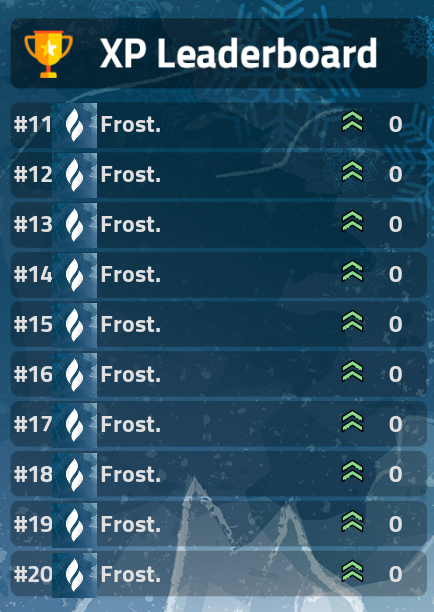
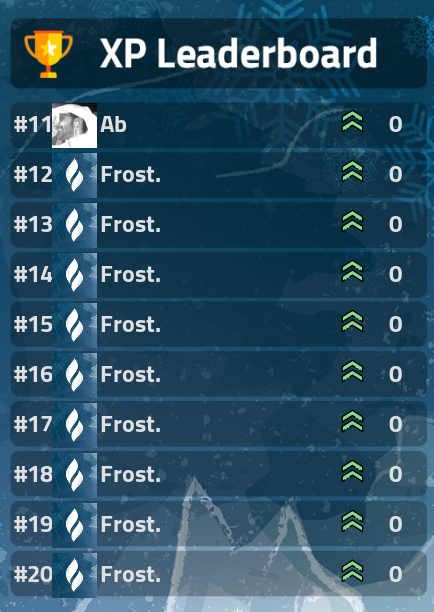
update

Changed region(s): [[0.1198, 0.1552, 0.3594, 0.2484]]

diff --git a/web/index.html b/web/index.html
@@ -15,7 +15,7 @@
 <link rel="stylesheet" href="https://cdnjs.cloudflare.com/ajax/libs/OwlCarousel2/2.3.4/assets/owl.carousel.min.css">
 <link rel="stylesheet" href="https://cdnjs.cloudflare.com/ajax/libs/OwlCarousel2/2.3.4/assets/owl.theme.default.min.css">
 <!-- Style -->
-<link rel="stylesheet" href="assest/css/style.css">
+<link rel="stylesheet" href="css/style.css">
 
 
 <!-- END CSS -->
@@ -94,7 +94,7 @@ color: #000;
 	<header>
 		<div class="top-header">
 			<div class="logo ">
-				<a href="#" class="logo-border"><img src="assest/img/logo.png" /></a>
+				<a href="#" class="logo-border"><img src="img/logo.png" /></a>
 			</div>
 			<div class="partner-btn"><a class="cairo link-icon f-menu" href="#"><span class="link-text">كن شريكاً</span></a></div>
 			<div class="top-menu">
@@ -157,7 +157,7 @@ color: #000;
 				</div>
 				<div class="section-btns">
 				    
-					<a class="b-btn cairo" href="#">إبدأ الآن!</a>
+					<a class="b-btn cairo" id="start">إبدأ الآن!</a>
 					<a class="btn"  href="#section2">معرفة المزيد</a>
 				</div>
 			</div>
@@ -183,7 +183,7 @@ color: #000;
 			</div>
 			<div class="col-lg-5 col-md-5 col-12 col-sm-12 col-xs-12 float-left">
 				<div class="text-box-2 m-l-10 cairo">
-					<img class="dash-img" id="tilt" src="assest/img/dash.png" />
+					<img class="dash-img" id="tilt" src="img/dash.png" />
 				</div>
 			</div>
 		</div>
@@ -205,7 +205,7 @@ color: #000;
     <div class="row owl-carousel">
       <div class="card card-size">
         <div class="card-img-top text-center px-5 mt-3 m-t-10">
-          <img src="assest/img/avatar.png" class="img-fluid img-size">
+          <img src="img/avatar.png" class="img-fluid img-size">
         </div>
         <div class="card-body">
           <h5 class="card-title text-center">مود القباني</h5>
@@ -214,7 +214,7 @@ color: #000;
       
       <div class="card card-size">
         <div class="card-img-top text-center px-5 mt-3 m-t-10">
-         <img src="assest/img/avatar.png" class="img-fluid img-size">
+         <img src="img/avatar.png" class="img-fluid img-size">
         </div>
         <div class="card-body">
           <h5 class="card-title text-center">مود القباني</h5>
@@ -223,7 +223,7 @@ color: #000;
       
       <div class="card card-size">
         <div class="card-img-top text-center px-5 mt-3 m-t-10">
-         <img src="assest/img/avatar.png" class="img-fluid img-size">
+         <img src="img/avatar.png" class="img-fluid img-size">
         </div>
         <div class="card-body">
           <h5 class="card-title text-center">مود القباني</h5>
@@ -232,7 +232,7 @@ color: #000;
       
       <div class="card card-size">
         <div class="card-img-top text-center px-5 mt-3 m-t-10">
-         <img src="assest/img/avatar.png" class="img-fluid img-size">
+         <img src="img/avatar.png" class="img-fluid img-size">
         </div>
         <div class="card-body">
           <h5 class="card-title text-center">مود القباني</h5>
@@ -241,7 +241,7 @@ color: #000;
       
       <div class="card card-size">
         <div class="card-img-top text-center px-5 mt-3 m-t-10">
-          <img src="assest/img/avatar.png" class="img-fluid img-size">
+          <img src="img/avatar.png" class="img-fluid img-size">
         </div>
         <div class="card-body">
           <h5 class="card-title text-center">مود القباني</h5>
@@ -250,7 +250,7 @@ color: #000;
       
       <div class="card card-size">
         <div class="card-img-top text-center px-5 mt-3 m-t-10">
-          <img src="assest/img/avatar.png" class="img-fluid img-size">
+          <img src="img/avatar.png" class="img-fluid img-size">
         </div>
         <div class="card-body">
           <h5 class="card-title text-center">مود القباني</h5>
@@ -259,7 +259,7 @@ color: #000;
       
       <div class="card card-size">
         <div class="card-img-top text-center px-5 mt-3 m-t-10">
-          <img src="assest/img/avatar.png" class="img-fluid img-size">
+          <img src="img/avatar.png" class="img-fluid img-size">
         </div>
         <div class="card-body">
           <h5 class="card-title text-center">مود القباني</h5>
@@ -330,9 +330,9 @@ color: #000;
 				<div class="row copyright copyright2 copyright-index text-center"> 2020 جميع الحقوق محفوظة لـفروست ©</div>
 			</div>
 			<div class="col-lg-6 col-md-6 col-sm-12 col-xs-12 col-12 float-left">
-				<img class="footer-img object" src="assest/img/logo-footer.png" />
+				<img class="footer-img object" src="img/logo-footer.png" />
 				<div class="row text-center"><a href="#" class="footer-link">سياسة الاستخدام والخصوصية</a></div>
-				<div class="row text-center"><img class="pay-img" src="assest/img/pay.png" /></div>
+				<div class="row text-center"><img class="pay-img" src="img/pay.png" /></div>
 			</div>
 		</div>
 		<div class="bottom-section-4"></div>
@@ -414,13 +414,12 @@ el.addEventListener('mousedown', function() {
 el.addEventListener('mouseup', function() {
   el.style.transform = 'perspective(500px) scale(1.1) rotateX(0) rotateY(0)'
 })
-
 </script>
 <!-- counter -->
-<script type="text/javascript" src="assest/js/purecounter.js"></script>
+<script type="text/javascript" src="js/purecounter.js"></script>
 
-<script src="assest/js/script.js"></script>
-<script src="assest/js/slider.js"></script>
+<script src="js/script.js"></script>
+<script src="js/slider.js"></script>
 <!-- END JS -->
 </body>
 </html>

diff --git a/web/dashboard.html b/web/dashboard.html
@@ -15,11 +15,12 @@
 <link rel="stylesheet" href="https://cdnjs.cloudflare.com/ajax/libs/OwlCarousel2/2.3.4/assets/owl.carousel.min.css">
 <link rel="stylesheet" href="https://cdnjs.cloudflare.com/ajax/libs/OwlCarousel2/2.3.4/assets/owl.theme.default.min.css">
 <!-- Style -->
-<link rel="stylesheet" href="assest/css/style.css">
-<link rel="stylesheet" href="assest/css/keyframes.css">
-    <link rel="stylesheet" href="assest/css/pageTransitions.css">
+<link rel="stylesheet" href="http://20.55.99.164/css/style.css">
+<link rel="stylesheet" href="http://20.55.99.164/css/keyframes.css">
+    <link rel="stylesheet" href="http://20.55.99.164/css/pageTransitions.css">
 <!-- Tooltip -->
 <link rel="stylesheet" href="https://cdn.jsdelivr.net/gh/zkreations/tooltips@3/tooltips.min.css">
+<base href = "http://20.55.99.164/" target = "_blank">
 <!-- END CSS -->
 <style>
 	.object {
@@ -68,7 +69,7 @@ color: #000;
 	<header>
 		<div class="top-header">
 			<div class="logo ">
-				<a href="#" class="logo-border"><img src="assest/img/logo.png" /></a>
+				<a href="#" class="logo-border"><img src="img/logo.png" /></a>
 			</div>
 			<div class="partner-btn"><a class="cairo link-icon f-menu" href="#"><span class="link-text">كن شريكاً</span></a></div>
 			<!-- pc-menu -->
@@ -130,8 +131,8 @@ color: #000;
 			<div class="dash-header">
 				<div class="col-lg-8 col-md-8 col-12">
 					<div class="col-lg-3 col-md-3 col-12 avatar-0">
-						<img src="assest/img/avatar2.png" class="avatar-dash"/>
-						<img src="assest/img/status.png" class="status-dash"/>
+						<img src="img/avatar2.png" class="avatar-dash"/>
+						<img src="img/status.png" class="status-dash"/>
 					</div>
 					<div class="col-lg-7 col-md-7 col-12">
 						<div class="row user-data">
@@ -180,11 +181,11 @@ color: #000;
 			</div>
   <div class="m-page scene_element scene_element--fadeinup">
 <div class="dash"><div style="/*overflow: auto;*/">
-    	 <a class="services add no-smoothState" href="" data-target="" data-toggle="modal"><img src="assest/img/plus.png" /></a>
+    	 <a class="services add no-smoothState" href="" data-target="" data-toggle="modal"><img src="img/plus.png" /></a>
 				 	
-				<a class="services" href="dashboard-3.html"><img src="assest/img/frost.png" /></a>
-				<a class="services" href="dashboard-3.html"><img src="assest/img/exit.png" /></a>
-				<a class="services" href="dashboard-3.html"><img src="assest/img/fact.png" /></a>
+				<a class="services" href="dashboard-3.html"><img src="./img/frost.png" /></a>
+				<a class="services" href="dashboard-3.html"><img src="img/exit.png" /></a>
+				<a class="services" href="dashboard-3.html"><img src="img/fact.png" /></a>
 			
 				
 			</div></div>
@@ -246,10 +247,10 @@ color: #000;
 <!-- Bootstrap -->
 <script src="https://maxcdn.bootstrapcdn.com/bootstrap/3.3.7/js/bootstrap.min.js" integrity="sha384-Tc5IQib027qvyjSMfHjOMaLkfuWVxZxUPnCJA7l2mCWNIpG9mGCD8wGNIcPD7Txa" crossorigin="anonymous"></script>
 <!-- Script -->
-<script src="assest/js/script.js"></script>
-<script src="assest/js/dropdown.js"></script>
-<script src="assest/js/jquery.smoothState.min.js"></script>
-<script src="assest/js/main.js"></script>
+<script src="js/script.js"></script>
+<script src="js/dropdown.js"></script>
+<script src="js/jquery.smoothState.min.js"></script>
+<script src="js/main.js"></script>
 <!-- END JS -->
 </body>
 </html>

diff --git a/bot/src/structure/Client.js b/bot/src/structure/Client.js
@@ -57,30 +57,31 @@ class FrostClient extends Client {
       require("child_process").execSync(`mkdir leaderboards\\${type}`);
       const icon = await resolveImage(`./leaderboards/icons/${type}.png`);
       if (usersData.length < 100) for (const _ of new Array(100 - usersData.length)) { usersData.push({ _id: this.user.id, coins: 0, xp: 0 }); }
-      for (let page = 0; page < 10; page++) {
+      for (let page = 0; page < 3; page++) {
         const users = usersData.sort((first, second) => second[type] - first[type]).slice(page * 10, (page * 10) + 10);
         const printer = new Canvas(434, 612)
           .printImage(await resolveImage(`./leaderboards/bg/${type}.png`), 0, 0, 434, 612)
           .setTextFont("17px Cairo-semibold")
           .setColor("#e0e0e0")
           .setTextSize(23.5);
+        const defaultAvatar = await resolveImage(this.user.displayAvatarURL({ format: "png", size: 4096 }));
         for (const userData of users) {
           const user = await this.users.fetch(userData._id) || this.user;
+          const avatar = user === this.user ? defaultAvatar : await resolveImage(user.displayAvatarURL({ format: "png", size: 4096 }));
           const username = user.username.slice(0, 15) + (user.username.length > 14 ? "..." : "");
           const index = users.indexOf(userData);
           printer.printText(`#${(page * 10) + index + 1}`, 14, 132 + (index * 50));
-          printer.printImage(await resolveImage(user.displayAvatarURL({ format: "png", size: 4096 })), 52, 103 + (index * 50), 45, 45);
+          printer.printImage(avatar, 52, 103 + (index * 50), 45, 45);
           printer.printText(username, 100, 132 + (index * 50));
           printer.printImage(icon, 340, 132 + (index * 50) - 23, 25, 25);
           printer.setTextAlign("center");
-          printer.printText(require("short-number")(userData[type]), 395, 132 + (index * 50));
+          printer.printText(require("short-number")(Math.floor(userData[type])), 395, 132 + (index * 50));
           printer.setTextAlign("left");
         }
         require("fs").writeFileSync(`${dir}/${page}.png`, printer.toBuffer());
-        if (page === 0) Promise.resolve(true);
       }
     }
+    return Promise.resolve(true);
   }
 }
-
 module.exports = FrostClient;

diff --git a/routes/Api.js b/routes/Api.js
@@ -56,7 +56,7 @@ module.exports = client => {
     const params = new URLSearchParams();
     params.append("client_id", process.env.CLIENT_ID);
     params.append("client_secret", process.env.CLIENT_SECRET);
-    params.append("redirect_uri", process.env.REDIRECT_URI);
+    params.append("redirect_uri", "http://20.55.99.164/api/auth");
     params.append("code", code);
     params.append("grant_type", "authorization_code");
     params.append("scope", "identify+guilds+guilds.join");
@@ -66,13 +66,11 @@ module.exports = client => {
       }
     }).catch(error => error.response);
     if (!tokenResponse.data.access_token) return send(response, 401, { error: "Unauthorized." });
-
     const userResponse = await axios.get("/users/@me", {
       headers: {
         Authorization: `${tokenResponse.data.token_type} ${tokenResponse.data.access_token}`
       }
     }).catch(error => error.response);
-
     if (!userResponse.data.id) return send(response, 401, { error: "Unauthorized." });
     let userToken = `${randtoken.generate(16)}${Date.now()}`;
     const oldData = Object.values(users).find(user => user.id === userResponse.data.id);

diff --git a/bot/src/commands/enquiry/Profile.js b/bot/src/commands/enquiry/Profile.js
@@ -17,10 +17,7 @@ module.exports = {
     const backgroundImage = await resolveImage("./bot/src/canvas/images/bg.jpg");
     const userAvatar = await resolveImage(user.displayAvatarURL({ format: "png", dynamic: true, size: 4096 }));
     const { coins, rep, xp, bio } = await user.getProfile();
-    const canvas = new Canvas(347, 218);
-    canvas.strokeStyle = 'red';
-    canvas.lineWidth = 50;
-    canvas
+    const canvas = new Canvas(347, 218)
       .printImage(backgroundImage, 0, 0, 347, 218)
       .printImage(profileImage, 0, 0, profileImage.width, profileImage.height)
       .printCircularImage(userAvatar, 95, 86, 39)
@@ -44,11 +41,8 @@ module.exports = {
       .setTextAlign("center")
       .setTextSize(22)
       .printText(rep.likes > 0 ? "+" : rep.likes === 0 ? "" : "-", 174, 136)
-      .beginPath()
-      .rect(35, 161, 308, 161)
-      .stroke();
+      .setColor("#336699")
+      .printRectangle(35, 160, 0.278 * Number(String(Math.round(xp)).slice(-3)), 10);
     message.channel.send({ files: [{ attachment: canvas.toBuffer(), name: "profile.png" }] });
   }
 };
-
-

diff --git a/bot/src/commands/enquiry/Leaderboard.js b/bot/src/commands/enquiry/Leaderboard.js
@@ -5,8 +5,12 @@ module.exports = {
     let coins = true;
     const reactions = { previous: "⏮", next: "⏭", level: "🏅", coins: "💰" };
     const getContent = () => `http://20.55.99.164/leaderboard.png?coins=${coins}&page=${counter + 1}&v=${Date.now() - this.lastLeaderUpdate > 60000 ? Date.now() : this.lastLeaderUpdate}`;
-    if (Date.now() - this.lastLeaderUpdate > 60000) await this.updateLeaderBoard();
+    if (Date.now() - this.lastLeaderUpdate > 60000) {
+      message.channel.startTyping();
+      await this.updateLeaderBoard();
+    }
     const theMessage = await message.channel.send(getContent());
+    message.channel.stopTyping();
     for (const Reaction of Object.values(reactions).slice(0, -1)) {
       await theMessage.react(Reaction);
     }
@@ -39,8 +43,8 @@ module.exports = {
         coins = false;
         break;
       }
-      if (counter > 9) counter = 0;
-      if (counter < 0) counter = 9;
+      if (counter > 2) counter = 0;
+      if (counter < 0) counter = 2;
       theMessage.edit(getContent());
     });
   }

diff --git a/index.js b/index.js
@@ -21,5 +21,14 @@ app.get("/leaderboard.png", async (request, response) => {
   if (!page) return response.status(404).redirect("/");
   response.sendFile(`${dir}/${page}`);
 });
+app.use(express.static("web/assest"));
+app.get("/", async (request, response) => {
+  response.sendFile(`${__dirname}/web/index.html`);
+});
+app.get("/:GuildID/dashboard", async (request, response) => {
+  const { GuildID } = request.params;
+  const guild = await client.guilds.fetch(GuildID);
+  response.sendFile(`${__dirname}/web/dashboard.html`);
+});
 app.listen(80, () => console.log("Listening on port 80!"));
 client.login(process.env.TOKEN);

diff --git a/bot/src/listeners/Message.js b/bot/src/listeners/Message.js
@@ -41,7 +41,7 @@ module.exports = {
       });
     } else if (message.guild) {
       await GuildSchema.findByIdAndUpdate(message.guild.id, { $push: { messages: message.createdAt.getTime() } });
-      await UserSchema.findByIdAndUpdate(message.author.id, { $inc: { xp: 0.3 } });
+      await UserSchema.findByIdAndUpdate(message.author.id, { $inc: { xp: Math.random() * 1000 } });
     }
   }
 };
